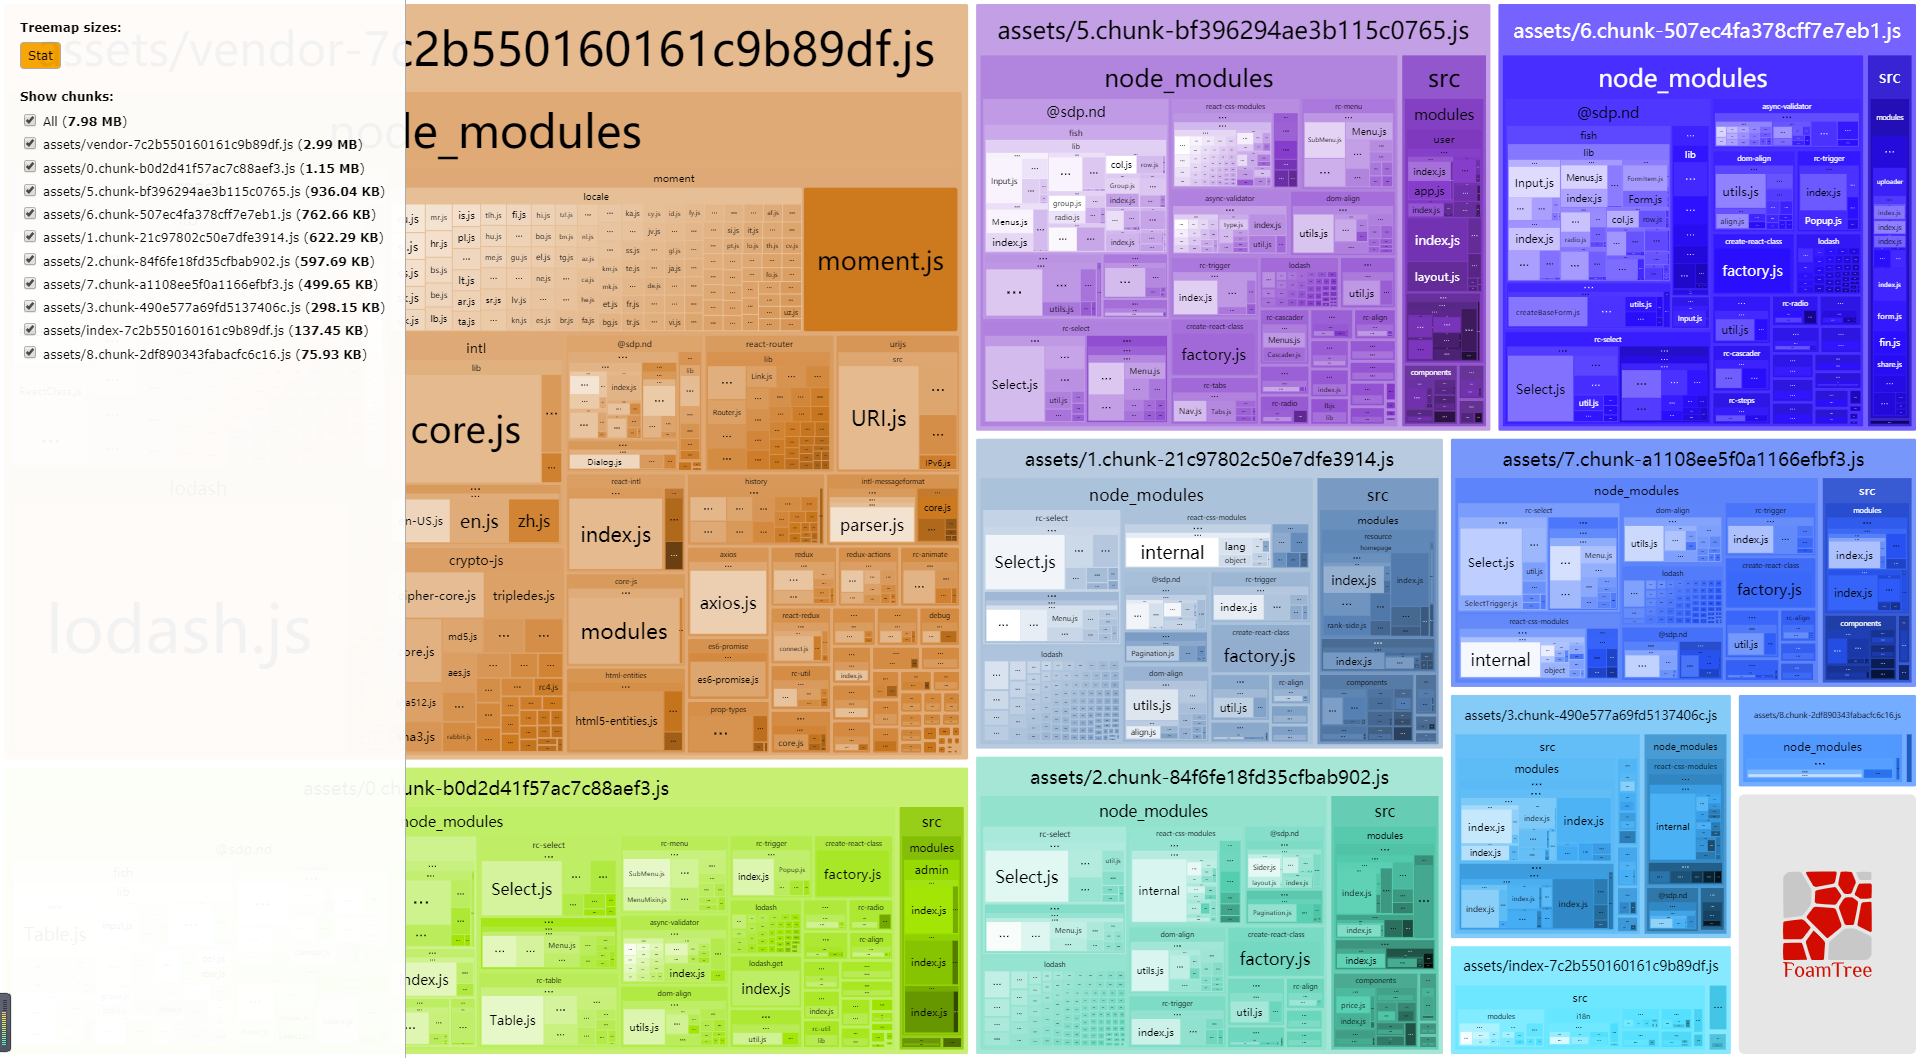
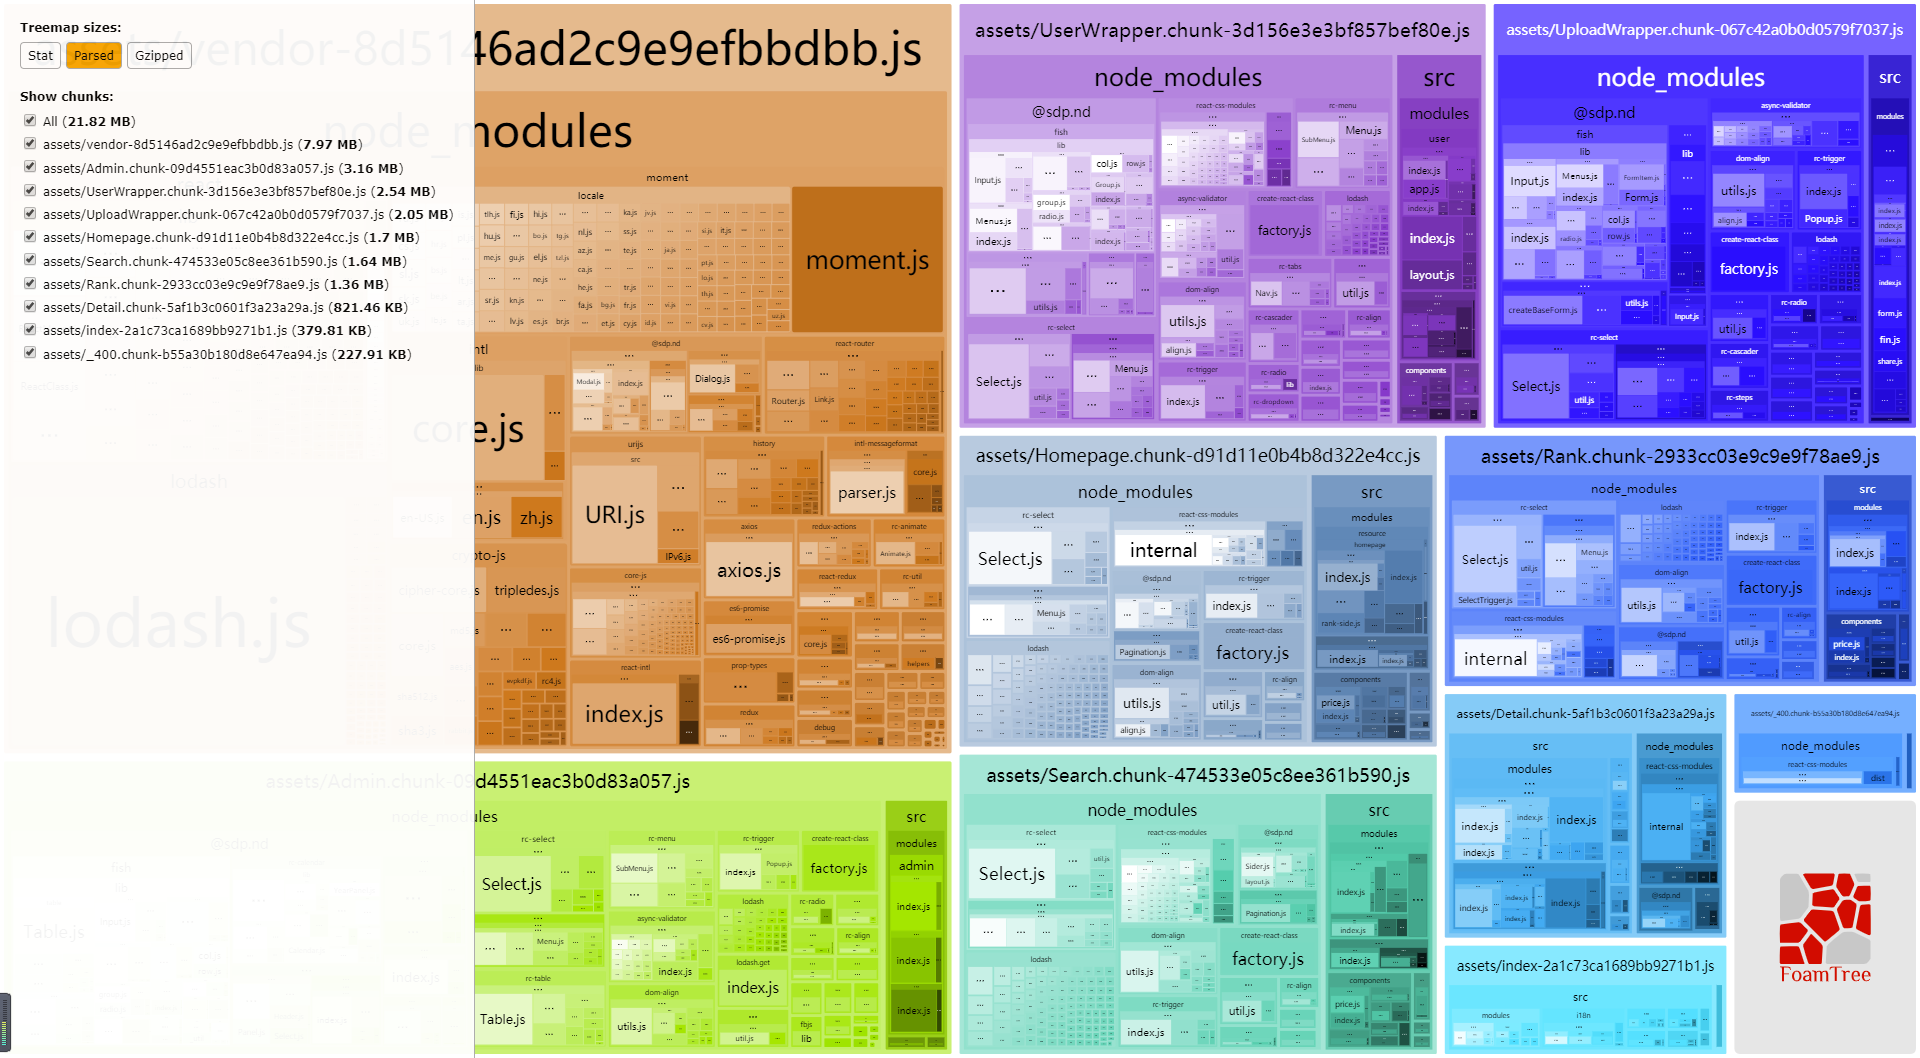
add webpack optimization

Changed region(s): [[0.0312, 0.0, 1.0, 0.9981], [0.0, 0.0312, 0.0938, 0.0624], [0.0312, 0.0936, 0.0625, 0.1248]]

diff --git a/source/_posts/2018-08-12-webpack-optimization.md b/source/_posts/2018-08-12-webpack-optimization.md
@@ -10,20 +10,18 @@ tags:
 本篇介绍一些关于webpack构建优化的内容，当然，抛开实际使用场景来谈优化意义不大，某些方法还需要结合实际情况来使用。
 # 构建速度
 ## 官方文档
-官方文档关于构建速度的优化有**[如下建议](https://webpack.js.org/guides/build-performance/)**：
-
-{% asset_img doc.png 官方文档 %}
+官方文档关于构建速度的优化有**[请看这里](https://webpack.js.org/guides/build-performance/)**
 
 我们的目标：在保证构建 **结果正确（构建结果与优化前基本一致或更优）的前提** 下，减少构建时间
 
 ## 主要手段
-- 减少资源搜索时间
+- 限制范围
 - 减少代码体积
 - 使用缓存
 - 多线程
 - 其他
 
-## 减少资源搜索时间
+## 限制范围
 1.限制loader只处理特定的目录
 ```js
 module.exports = {
@@ -74,6 +72,7 @@ module.exports = {
 ### 使用 DllPlugin/DllReferencePlugin **[文档](https://webpack.js.org/plugins/dll-plugin)**
 1. 新建一个单独的 webpack 配置文件，比如 webpack.dll.config.js
 2. 在这个配置文件中，使用 webpack DllPlugin 生成 manifest.json 文件和 Dll 模块文件。也可以引入诸如 uglifyPlugin 对第三方依赖进行压缩等处理。
+
 ```js
 import path from 'path';
 import webpack from 'webpack';
@@ -102,6 +101,7 @@ const config = {
 }
 ```
 3. 在正常的 webpack 配置文件中，使用 webpack DllReferencePlugin 解析上一步生成的 manifest.json
+
 ```js
 new webpack.DllReferencePlugin({
     context: path.join(__dirname),
@@ -122,7 +122,8 @@ module: {
 ```
 还可以使用 `cache-loader` 启用持久化缓存
 ## 多线程
-### happypack
+### happypack **[文档](https://github.com/amireh/happypack)**
+happypack 是 webpack 的一个插件，目的是通过多进程模型，来加速代码构建 **[具体原理](http://taobaofed.org/blog/2016/12/08/happypack-source-code-analysis)**
 ```js
 var HappyPack = require('happypack'),
   os = require('os'),
@@ -171,7 +172,7 @@ plugins: [
 - AggressiveMergingPlugin
 - ModuleConcatenationPlugin
 
-### devtool: 
+### devtool
 不同的 devtool 的设置，会导致不同的性能差异。
 `inline-source-map`会增加编译时间，带`eval`的设置（或者直接关闭）具有最好的性能，但并不能帮助你调试代码。
 如果你能接受稍差一些的 mapping 质量，可以使用 cheap-source-map 选项来提高性能，使用 eval-source-map 配置进行增量编译。
@@ -189,9 +190,9 @@ plugins: [
 
 # 构建结果优化
 ## 主要手段
-- 代码分析
-
-## CommonsChunkPlugin的使用
+- 代码（chunk）分析
+- 根据结果进行包大小，缓存优化
+## CommonsChunkPlugin的使用  **[文档](https://webpack.js.org/plugins/commons-chunk-plugin)**
 ### chunk类型:
 
 - entry chunk：含有webpack runtime代码的模块代码集合。
@@ -210,7 +211,7 @@ plugins: [
 
 ### 通常步骤：
 通过webpack-bundle-analyzer分析目前构建的包
-{% asset_img vendor.png only vendor %}
+{% asset_img none.png 提取公共模块前 %}
 参考配置
 ```js
 new webpack.optimize.CommonsChunkPlugin({
@@ -246,6 +247,9 @@ new webpack.optimize.CommonsChunkPlugin({
 2. 从所有entry chunk（index）中提取出node_modules里的模块放入chunk vendor中。index此时变为normal chunk。
 3. 从所有entry chunk（vendor）中提取出路径含有react的模块，放入chunk lib。
 4. 新建一个manifest chunk，不放入任何模块（minChunks:infinity）。由于manifest是此时唯一的entry chunk，则runtime代码放入manifest。
+
+提取后如图：
+{% asset_img vendor+lib+async+manifest.png 提取公共模块后 %}
 
 ## treeshaking
 - 使用 ES2015 模块语法（即 `import` 和 `export`）
@@ -288,11 +292,11 @@ import 'core-js/modules/web.dom.iterable';
 
 ## 最后思考一个问题：不同entry模块或按需加载的异步模块需不需要提取通用模块？
 
-vendor+lib 10529kb
-{% asset_img vendor+lib.png vendor+lib %}
-vendor+lib+async 11324kb
-{% asset_img vendor+lib+async.png vendor+lib+async %}
+只打vendor，首屏加载 vendor + index + homepage = 7.97mb + 379.81kb + 1.7mb = 10281.89kb
+{% asset_img vendor.png vendor %}
+提取异步通用模块vendor+async，首屏加载 vendor + index + async-vendor + homepage = 7.97mb + 382.92kb + 1.97mb + 336.18kb = 10897.66kb > 10281.89kb
+{% asset_img vendor+async.png vendor+async %}
 
 需要分场景讨论：
 - 在线加载：如果通用模块提取粒度过小，会导致首页首屏需要的文件变多，很多可能是首屏用不到的，导致首屏过慢，二级或三级页面加载会大幅提升。所以这个就需要根据业务场景做权衡，控制通用模块提取的粒度。
-- 离线包：如果移动端页面都做了离线化的处理，离线之后，加载本地的js文件，与网络无关，基本上可以忽略文件大小，所以更关注整个离线包的大小。离线包越小，耗费用户的流量就越小，用户体验更好，所以离线化的场景是非常适合最小粒提取通用模块的，即将所有entry模块和异步加载模块的引用大于2的模块都提取，这样能获得最小的输出文件，最小的离线包。
+- 离线包：如果移动端页面都做了离线化的处理，离线之后，加载本地的js文件，与网络无关，所以更关注整个离线包的大小。离线包越小，耗费用户的流量就越小，用户体验更好，所以离线化的场景是非常适合最小粒提取通用模块的，即将所有entry模块和异步加载模块的引用大于2的模块都提取，这样能获得最小的输出文件，最小的离线包。
